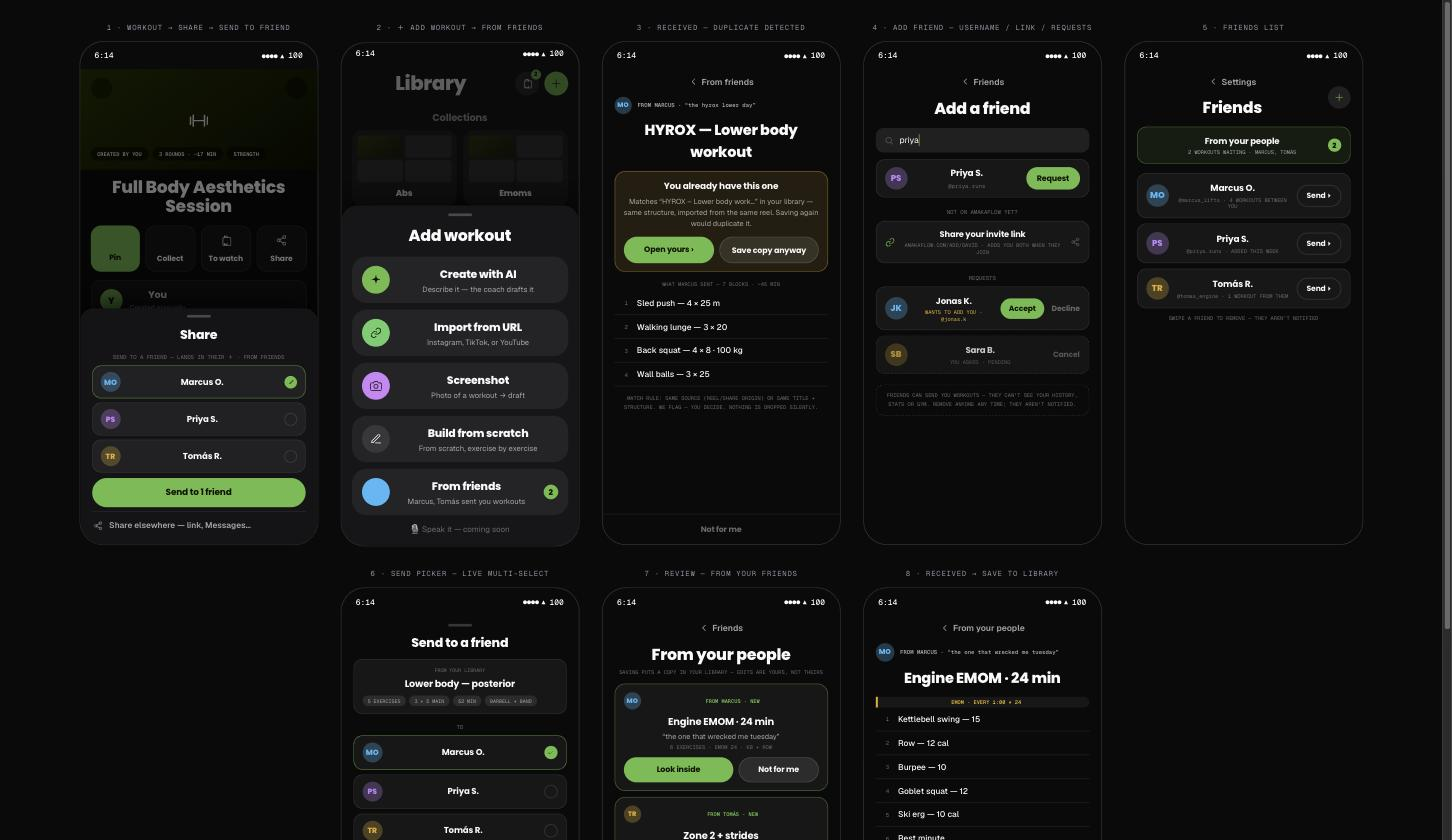
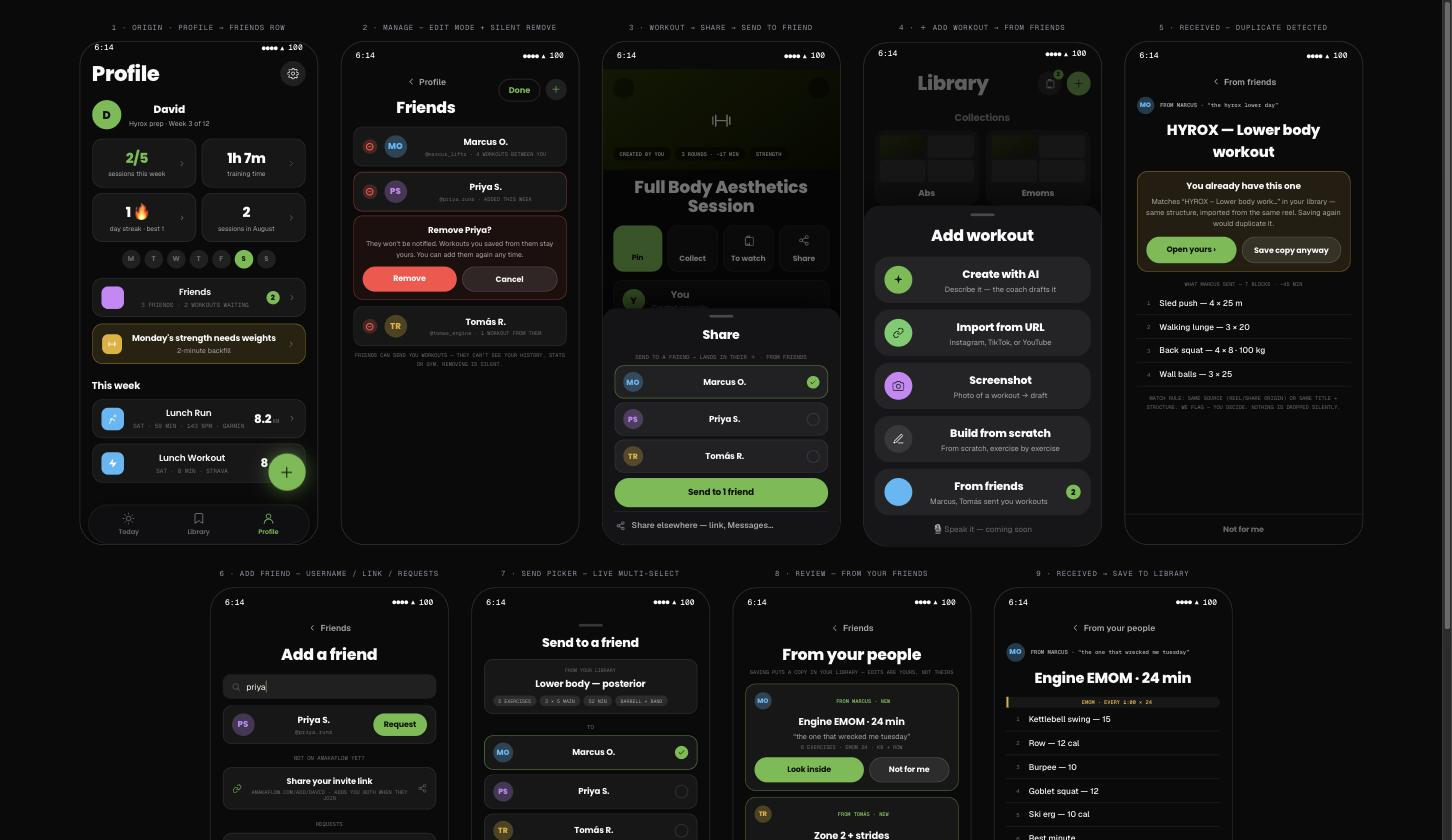
[AMA-2389] handoff: final placement — Profile Friends row + Edit-mode manage/remove

diff --git a/design-handoff/reference/screens-friends3.jsx b/design-handoff/reference/screens-friends3.jsx
@@ -1,0 +1,338 @@
+/**
+ * Friends — ORIGIN + MANAGE/REMOVE (2026-08-08). DISPOSABLE.
+ * David's final placement call: Friends originates on PROFILE (not the
+ * Settings row) — a row between the week dots and the needs-attention
+ * card, ported from his live Profile screenshot (identity · 2×2 tiles ·
+ * week dots · amber backfill · This week · floating island + FAB).
+ * Manage/remove: our own AMA-2375 precedent (Peloton Edit mode, ⊖ rows)
+ * + Mobbin: Locket ✕-row + consequence dialog (a168a4f8), Finch "They
+ * will not be notified" (18f96553), Slopes Manage section (e0a7d749).
+ * FP prefix. Presets: profile / manage.
+ */
+
+const FP = {
+  lime: 'var(--ready-high)', amber: 'var(--ready-mod)', ink: '#0d1200',
+  card: 'rgba(255,255,255,0.055)', card2: 'rgba(255,255,255,0.09)',
+  blue: '#5AB8F4', purple: '#C58AF4', red: '#F4564A',
+};
+
+function FPChip({ name, bg, size = 34 }) {
+  return (
+    <div style={{ width: size, height: size,
+      borderRadius: Math.round(size * 0.29), background: bg, color: '#fff',
+      display: 'flex', alignItems: 'center', justifyContent: 'center',
+      flexShrink: 0 }}>
+      <Icon name={name} size={Math.round(size * 0.47)}/>
+    </div>
+  );
+}
+
+function FPAv({ name, color, size = 34 }) {
+  return (
+    <div style={{ width: size, height: size, borderRadius: 999,
+      background: 'color-mix(in oklch, ' + color + ', transparent 72%)',
+      color, display: 'flex', alignItems: 'center', justifyContent: 'center',
+      fontWeight: 800, fontSize: size * 0.38, flexShrink: 0,
+      fontFamily: 'Poppins, sans-serif' }}>
+      {name.split(' ').map(w => w[0]).join('').slice(0, 2)}
+    </div>
+  );
+}
+
+function FPTabBar({ toast }) {
+  const items = [['sun', 'Today', false], ['bookmark', 'Library', false],
+    ['user', 'Profile', true]];
+  return (
+    <>
+      <div style={{ position: 'absolute', left: 12, right: 12, bottom: 12,
+        zIndex: 30, background: 'rgba(16,16,18,0.96)',
+        border: '1px solid rgba(255,255,255,0.08)', borderRadius: 32,
+        padding: '10px 8px 8px', display: 'flex', alignItems: 'center',
+        backdropFilter: 'blur(14px)',
+        boxShadow: '0 10px 30px rgba(0,0,0,.55)' }}>
+        {items.map(([ic, name, on]) => (
+          <div key={name} style={{ flex: 1, display: 'flex',
+            flexDirection: 'column', alignItems: 'center', gap: 3,
+            color: on ? FP.lime : 'var(--fg-dim)' }}>
+            <Icon name={ic} size={20}/>
+            <span className="dd-display" style={{ fontSize: 10,
+              fontWeight: 600 }}>{name}</span>
+          </div>
+        ))}
+      </div>
+      <div onClick={() => toast('＋ — Add workout sheet (unchanged)')}
+        style={{ position: 'absolute', right: 18, bottom: 92, zIndex: 31,
+          width: 56, height: 56, borderRadius: 999, background: FP.lime,
+          color: FP.ink, display: 'flex', alignItems: 'center',
+          justifyContent: 'center', cursor: 'pointer',
+          boxShadow: '0 0 28px color-mix(in oklch, var(--ready-high), transparent 45%)' }}>
+        <Icon name="plus" size={25}/>
+      </div>
+    </>
+  );
+}
+
+// -------- ORIGIN · Profile (real anatomy) + the Friends row
+function FPProfileScreen({ set }) {
+  const toast = (t) => set(s => ({ ...s, toast: t }));
+  return (
+    <>
+      <div style={{ padding: '8px 18px 0', display: 'flex',
+        alignItems: 'center' }}>
+        <div className="dd-display" style={{ fontSize: 32, fontWeight: 800 }}>
+          Profile</div>
+        <div style={{ marginLeft: 'auto', width: 38, height: 38,
+          borderRadius: 999, background: FP.card2, display: 'flex',
+          alignItems: 'center', justifyContent: 'center' }}>
+          <Icon name="gear" size={18}/>
+        </div>
+      </div>
+      <div className="af-scroll" style={{ flex: 1, overflowY: 'auto',
+        padding: '6px 18px 96px' }}>
+        <div style={{ display: 'flex', alignItems: 'center', gap: 12,
+          marginTop: 10 }}>
+          <div className="dd-display" style={{ width: 44, height: 44,
+            borderRadius: 999, background: FP.lime, color: FP.ink,
+            display: 'flex', alignItems: 'center', justifyContent: 'center',
+            fontSize: 17, fontWeight: 800 }}>D</div>
+          <div>
+            <div className="dd-display" style={{ fontSize: 16,
+              fontWeight: 800 }}>David</div>
+            <div style={{ fontSize: 10.5, color: 'var(--fg-muted)',
+              marginTop: 1 }}>Hyrox prep · Week 3 of 12</div>
+          </div>
+        </div>
+        <div style={{ display: 'grid', gridTemplateColumns: '1fr 1fr', gap: 8,
+          marginTop: 14 }}>
+          {[['2/5', 'sessions this week', FP.lime],
+            ['1h 7m', 'training time', '#fff'],
+            ['1 🔥', 'day streak · best 1', '#fff'],
+            ['2', 'sessions in August', '#fff']].map(([v, k, c]) => (
+            <div key={k} style={{ background: FP.card,
+              border: '1px solid var(--border)', borderRadius: 16,
+              padding: '13px 14px', display: 'flex', alignItems: 'center',
+              gap: 8 }}>
+              <div style={{ flex: 1 }}>
+                <div className="dd-display" style={{ fontSize: 21,
+                  fontWeight: 800, color: c }}>{v}</div>
+                <div style={{ fontSize: 10, color: 'var(--fg-muted)',
+                  marginTop: 2 }}>{k}</div>
+              </div>
+              <Icon name="chevR" size={13} style={{ color: 'var(--fg-dim)' }}/>
+            </div>
+          ))}
+        </div>
+        <div style={{ display: 'flex', gap: 6, justifyContent: 'center',
+          marginTop: 12 }}>
+          {['M', 'T', 'W', 'T', 'F', 'S', 'S'].map((d, i) => (
+            <div key={i} className="dd-display" style={{ width: 28,
+              height: 28, borderRadius: 999, display: 'flex',
+              alignItems: 'center', justifyContent: 'center',
+              fontSize: 10.5, fontWeight: 700,
+              background: i === 5 ? FP.lime : FP.card2,
+              color: i === 5 ? FP.ink : 'var(--fg-dim)' }}>{d}</div>
+          ))}
+        </div>
+
+        {/* THE FRIENDS ROW — the origin. This-week row anatomy. */}
+        <div onClick={() => toast('Opens Friends (manage panel next)')}
+          style={{ display: 'flex', alignItems: 'center', gap: 12,
+            background: FP.card, border: '1px solid var(--border)',
+            borderRadius: 16, padding: '11px 13px', marginTop: 14,
+            cursor: 'pointer' }}>
+          <FPChip name="users" bg={FP.purple} size={34}/>
+          <div style={{ flex: 1, minWidth: 0 }}>
+            <div className="dd-display" style={{ fontSize: 13.5,
+              fontWeight: 600 }}>Friends</div>
+            <div className="af-mono" style={{ fontSize: 9, marginTop: 3,
+              color: 'var(--fg-dim)' }}>3 FRIENDS · 2 WORKOUTS WAITING</div>
+          </div>
+          <span className="dd-display" style={{ background: FP.lime,
+            color: FP.ink, borderRadius: 999, minWidth: 20, height: 20,
+            display: 'inline-flex', alignItems: 'center',
+            justifyContent: 'center', fontSize: 11, fontWeight: 800,
+            padding: '0 6px' }}>2</span>
+          <Icon name="chevR" size={13} style={{ color: 'var(--fg-dim)' }}/>
+        </div>
+
+        <div style={{ marginTop: 10, padding: '12px 14px', borderRadius: 16,
+          display: 'flex', alignItems: 'center', gap: 12,
+          background: 'color-mix(in oklch, var(--ready-mod), transparent 86%)',
+          border: '1px solid color-mix(in oklch, var(--ready-mod), transparent 55%)' }}>
+          <FPChip name="lift" bg={'var(--ready-mod)'} size={30}/>
+          <div style={{ flex: 1 }}>
+            <div className="dd-display" style={{ fontSize: 13,
+              fontWeight: 700 }}>Monday's strength needs weights</div>
+            <div style={{ fontSize: 10.5, color: 'var(--fg-muted)',
+              marginTop: 1 }}>2-minute backfill</div>
+          </div>
+          <Icon name="chevR" size={14} style={{ color: 'var(--fg-dim)' }}/>
+        </div>
+
+        <div style={{ display: 'flex', alignItems: 'center',
+          margin: '20px 0 10px' }}>
+          <span className="dd-display" style={{ fontSize: 15,
+            fontWeight: 700 }}>This week</span>
+        </div>
+        {[['Lunch Run', 'run', FP.blue, '8.2', 'KM', 'SAT · 59 MIN · 143 BPM · GARMIN'],
+          ['Lunch Workout', 'bolt', FP.blue, '8', 'MIN', 'SAT · 8 MIN · STRAVA']].map(([t, ic, bg, big, unit, meta]) => (
+          <div key={t} style={{ display: 'flex', alignItems: 'center',
+            gap: 12, background: FP.card, border: '1px solid var(--border)',
+            borderRadius: 16, padding: '11px 13px', marginBottom: 8 }}>
+            <FPChip name={ic} bg={bg} size={34}/>
+            <div style={{ flex: 1, minWidth: 0 }}>
+              <div className="dd-display" style={{ fontSize: 13.5,
+                fontWeight: 600 }}>{t}</div>
+              <div className="af-mono" style={{ fontSize: 9, marginTop: 3,
+                color: 'var(--fg-dim)' }}>{meta}</div>
+            </div>
+            <div style={{ textAlign: 'right', flexShrink: 0 }}>
+              <span className="dd-display" style={{ fontSize: 18,
+                fontWeight: 800 }}>{big}</span>
+              <span className="af-mono" style={{ fontSize: 8.5,
+                color: 'var(--fg-dim)', marginLeft: 2 }}>{unit}</span>
+            </div>
+            <Icon name="chevR" size={13} style={{ color: 'var(--fg-dim)' }}/>
+          </div>
+        ))}
+      </div>
+      <FPTabBar toast={toast}/>
+    </>
+  );
+}
+
+// -------- MANAGE · Friends list w/ Edit mode + remove confirm
+function FPManageScreen({ set }) {
+  const toast = (t) => set(s => ({ ...s, toast: t }));
+  const [editing, setEditing] = React.useState(true);
+  const [confirming, setConfirming] = React.useState('Priya S.');
+  const friends = [
+    ['Marcus O.', '@marcus_lifts', FP.blue, '4 WORKOUTS BETWEEN YOU'],
+    ['Priya S.', '@priya.runs', FP.purple, 'ADDED THIS WEEK'],
+    ['Tomás R.', '@tomas_engine', FP.amber, '1 WORKOUT FROM THEM'],
+  ];
+  return (
+    <>
+      <div style={{ padding: '10px 18px 0', display: 'flex',
+        alignItems: 'flex-start' }}>
+        <div style={{ flex: 1 }}>
+          <div style={{ display: 'inline-flex', alignItems: 'center', gap: 4,
+            color: 'var(--fg-muted)', fontSize: 13, fontWeight: 600 }}>
+            <Icon name="chevL" size={16}/> Profile
+          </div>
+          <div className="dd-display" style={{ fontSize: 24, fontWeight: 800,
+            marginTop: 8 }}>Friends</div>
+        </div>
+        <div style={{ display: 'flex', gap: 8, marginTop: 4 }}>
+          <span onClick={() => setEditing(e => !e)} className="dd-display"
+            style={{ fontSize: 12.5, fontWeight: 700,
+              color: editing ? FP.lime : 'var(--fg-muted)',
+              border: '1px solid var(--border-str)', borderRadius: 999,
+              padding: '7px 14px', cursor: 'pointer' }}>
+            {editing ? 'Done' : 'Edit'}</span>
+          <div onClick={() => toast('Opens Add a friend (username / link / requests)')}
+            style={{ width: 32, height: 32, borderRadius: 999,
+              background: FP.card2, display: 'flex', alignItems: 'center',
+              justifyContent: 'center', cursor: 'pointer' }}>
+            <Icon name="plus" size={15} style={{ color: FP.lime }}/>
+          </div>
+        </div>
+      </div>
+      <div className="af-scroll" style={{ flex: 1, overflowY: 'auto',
+        padding: '12px 18px 20px' }}>
+        {friends.map(([n, u, c, rel]) => (
+          <React.Fragment key={u}>
+            <div style={{ display: 'flex', alignItems: 'center', gap: 11,
+              background: FP.card,
+              border: confirming === n && editing
+                ? '1px solid color-mix(in oklch, #F4564A, transparent 55%)'
+                : '1px solid var(--border)',
+              borderRadius: 14, padding: '12px 13px', marginBottom: 8 }}>
+              {editing && (
+                <div onClick={() => setConfirming(n)}
+                  style={{ width: 22, height: 22, borderRadius: 999,
+                    background: 'color-mix(in oklch, #F4564A, transparent 78%)',
+                    color: FP.red, display: 'flex', alignItems: 'center',
+                    justifyContent: 'center', cursor: 'pointer',
+                    fontWeight: 800, fontSize: 14, flexShrink: 0 }}>⊖</div>
+              )}
+              <FPAv name={n} color={c}/>
+              <div style={{ flex: 1, minWidth: 0 }}>
+                <div className="dd-display" style={{ fontSize: 13.5,
+                  fontWeight: 700 }}>{n}</div>
+                <div className="af-mono" style={{ fontSize: 8, marginTop: 2,
+                  color: 'var(--fg-dim)' }}>{u} · {rel}</div>
+              </div>
+              {!editing && (
+                <div className="dd-display"
+                  onClick={() => toast('Opens send picker · ' + n.split(' ')[0] + ' pre-selected')}
+                  style={{ border: '1px solid var(--border-str)',
+                    borderRadius: 999, padding: '7px 14px', fontSize: 11.5,
+                    fontWeight: 700, cursor: 'pointer' }}>Send ▸</div>
+              )}
+            </div>
+            {/* inline remove confirm — Finch/Locket copy */}
+            {editing && confirming === n && (
+              <div style={{ background: 'color-mix(in oklch, #F4564A, transparent 92%)',
+                border: '1px solid color-mix(in oklch, #F4564A, transparent 60%)',
+                borderRadius: 14, padding: '11px 13px', margin: '-2px 0 10px' }}>
+                <div className="dd-display" style={{ fontSize: 13,
+                  fontWeight: 700 }}>Remove {n.split(' ')[0]}?</div>
+                <div style={{ fontSize: 10.5, color: 'var(--fg-muted)',
+                  marginTop: 3, lineHeight: 1.5 }}>
+                  They won't be notified. Workouts you saved from them stay
+                  yours. You can add them again any time.</div>
+                <div style={{ display: 'flex', gap: 8, marginTop: 10 }}>
+                  <div className="dd-display"
+                    onClick={() => { setConfirming(null);
+                      toast(n.split(' ')[0] + ' removed — not notified'); }}
+                    style={{ flex: 1, background: FP.red, color: '#fff',
+                      borderRadius: 999, padding: '9px 0',
+                      textAlign: 'center', fontSize: 12, fontWeight: 700,
+                      cursor: 'pointer' }}>Remove</div>
+                  <div className="dd-display"
+                    onClick={() => setConfirming(null)}
+                    style={{ flex: 1, background: FP.card2,
+                      border: '1px solid var(--border-str)',
+                      borderRadius: 999, padding: '9px 0',
+                      textAlign: 'center', fontSize: 12, fontWeight: 700,
+                      cursor: 'pointer' }}>Cancel</div>
+                </div>
+              </div>
+            )}
+          </React.Fragment>
+        ))}
+        <div className="af-mono" style={{ fontSize: 8, color: 'var(--fg-dim)',
+          textAlign: 'center', marginTop: 8, lineHeight: 1.7 }}>
+          FRIENDS CAN SEND YOU WORKOUTS — THEY CAN'T SEE YOUR HISTORY, STATS
+          OR GYM. REMOVING IS SILENT.</div>
+      </div>
+    </>
+  );
+}
+
+function DDFriends3Screen({ preset }) {
+  const [st, set] = React.useState({ toast: null });
+  React.useEffect(() => {
+    if (!st.toast) return;
+    const t = setTimeout(() => set(s => ({ ...s, toast: null })), 2600);
+    return () => clearTimeout(t);
+  }, [st.toast]);
+  const body = preset === 'manage'
+    ? <FPManageScreen set={set}/> : <FPProfileScreen set={set}/>;
+  return (
+    <div style={{ position: 'relative', display: 'flex',
+      flexDirection: 'column', height: '100%' }}>
+      {body}
+      {st.toast && (
+        <div style={{ position: 'absolute', bottom: 84, left: 14, right: 14,
+          zIndex: 40, background: '#17181c',
+          border: '1px solid var(--border-str)', borderRadius: 12,
+          padding: '9px 13px', fontSize: 10.5, color: 'var(--fg-muted)',
+          boxShadow: '0 10px 30px rgba(0,0,0,0.55)' }}>{st.toast}</div>
+      )}
+    </div>
+  );
+}
+
+Object.assign(window, { DDFriends3Screen });

diff --git a/design-handoff/FRIENDS.md b/design-handoff/FRIENDS.md
@@ -2,8 +2,8 @@
 
 > Ticket (full spec + validation): [AMA-2389](https://linear.app/amakaflow/issue/AMA-2389/friends-and-workout-sharing-v1-add-friends-send-from-share-receive-via)
 > Spec of record: `amakaflow-docs/docs/superpowers/specs/2026-08-08-friends-workout-sharing-design.md` (PR #68)
-> Reference source: `reference/screens-friends.jsx` (FR — flows) + `reference/screens-friends2.jsx` (FR2 — placement ports)
-> Ground truth: `screenshots/rig-friends-panels.jpg` (8 panels)
+> Reference source: `reference/screens-friends.jsx` (FR — flows) + `reference/screens-friends2.jsx` (FR2 — Share/＋/dup ports) + `reference/screens-friends3.jsx` (FP — Profile origin + manage/remove)
+> Ground truth: `screenshots/rig-friends-panels.jpg` (9 panels)
 > Live rig (panels 1, 2, 6 interactive): https://claude.ai/design/p/2ff39626-7f9e-440a-8182-7b19aa44227f?file=hifi%2Frig-friends.html
 
 **One sentence:** add friends (mutual-accept), send library workouts from the workout screen's **existing Share tile**, receive via a new **From friends** source in the ＋ Add-workout sheet, and flag duplicates on save — sharing, not social.
@@ -14,15 +14,15 @@
 |---|---|---|
 | Send | Workout detail action row (Pin/Collect/To-watch/**Share**) | Share opens a sheet: "Send to a friend" (friend select + counted CTA) on top, "Share elsewhere — link, Messages…" (current system share) below |
 | Receive | ＋ Add-workout sheet | New row, shipped anatomy (icon circle + title + sub): **From friends** · "<names> sent you workouts" + lime waiting badge. After Build from scratch |
-| Manage | Settings accordion (My Gyms / Connected wearables / …) | New **Friends** row → list / add / requests. Waiting badge here too |
+| Manage | **Profile screen** (final placement — supersedes Settings) | **Friends** row between the week dots and the needs-attention card, This-week row anatomy (`Friends · 3 FRIENDS · 2 WORKOUTS WAITING` + lime badge) → list / add / requests |
 | Today | — | NOTHING standing. Arrival = DD Toast + badges only |
 
 ## Build order
 
 1. **Backend/BFF seams first, behind a protocol** (endpoints land separately): `Friendship` (request/accept/decline/cancel/remove/list — decline/cancel/remove are SILENT, no notification event) and `WorkoutShare` (send/list/mark-seen/save/dismiss). Shares carry an **immutable workoutSnapshot** + `lineageId` (stable across re-shares; seeded from the origin source id when the workout came from a reel/URL) + optional note.
-2. **Settings Friends row + friends screens** (add / list / requests — exact copy strings in `screens-friends.jsx`). Privacy contract card verbatim: *"Friends can send you workouts — they can't see your history, stats or gym. Remove anyone any time; they aren't notified."* Unique @handle required — confirm Clerk username covers it; else a claim step on first Friends visit.
+2. **Profile Friends row + friends screens** (row port in `screens-friends3.jsx` FPProfileScreen; add / list / requests copy in `screens-friends.jsx`). **Manage/remove** (`FPManageScreen`): header Edit pill toggles the AMA-2375-style edit mode — red ⊖ per row → INLINE confirm card "Remove <name>? They won't be notified. Workouts you saved from them stay yours. You can add them again any time." [Remove / Cancel]. Removal emits NO notification event; re-add allowed. Privacy contract card verbatim: *"Friends can send you workouts — they can't see your history, stats or gym. Remove anyone any time; they aren't notified."* Unique @handle required — confirm Clerk username covers it; else a claim step on first Friends visit.
 3. **Share sheet upgrade** (`screens-friends2.jsx` FR2DetailScreen): friend multi-select, gated counted CTA `Send to N friends`, honesty line "They get a copy — your original stays yours; their edits don't touch it." Send = DD Toast push-morph (ToastHost, #534) — never claim Sent before the API confirms. System share row unchanged below.
-4. **＋ sheet From friends row + review list** (FR2AddScreen + FRInboxScreen): unread lime-bordered cards `FROM <NAME> · NEW` w/ note + Look inside / Not for me (silent dismiss); handled cards dim `SAVED ✓`. Badge count = unhandled shares; identical on Settings row and ＋ row; decrements on save AND dismiss.
+4. **＋ sheet From friends row + review list** (FR2AddScreen + FRInboxScreen): unread lime-bordered cards `FROM <NAME> · NEW` w/ note + Look inside / Not for me (silent dismiss); handled cards dim `SAVED ✓`. Badge count = unhandled shares; identical on Profile Friends row and ＋ row; decrements on save AND dismiss.
 5. **Received detail + Save** (FRSavedScreen): read-only structure preview (band + numbered rows), snapshot rule copy, **Save to Library** → normal workout with `From <name>` in the attribution card (`sourceType: friend`). Everything existing (collections, watch-ready, editor) must just work on it.
 6. **Dedupe on open** (FR2DupScreen): match = same `lineageId` OR same normalized title + structure fingerprint (block count, exercise sequence, set scheme hash). Strong match → amber **"You already have this one"** card: **Open yours ›** (navigate to existing) / **Save copy anyway** (title + ` (from <name>)`) / Not for me. Title-only similarity → NO flag. Never silently dedupe or drop.
 
@@ -35,14 +35,14 @@
 
 ## a11y IDs
 
-`af_share_sheet` · `af_share_friend_row_<handle>` · `af_share_send` · `af_share_system` · `af_add_from_friends` (+ `_badge`) · `af_friends_settings_row` · `af_friends_list` · `af_friends_add` · `af_friends_request_accept|decline|cancel` · `af_friends_invite_link` · `af_recv_row_<id>` · `af_recv_look|dismiss` · `af_recv_dup_card` · `af_recv_dup_open|copy` · `af_recv_save`
+`af_share_sheet` · `af_share_friend_row_<handle>` · `af_share_send` · `af_share_system` · `af_add_from_friends` (+ `_badge`) · `af_friends_profile_row` · `af_friends_edit` · `af_friends_remove_<handle>` (+ `_confirm`) · `af_friends_list` · `af_friends_add` · `af_friends_request_accept|decline|cancel` · `af_friends_invite_link` · `af_recv_row_<id>` · `af_recv_look|dismiss` · `af_recv_dup_card` · `af_recv_dup_open|copy` · `af_recv_save`
 
 ## Validation gate (details in the ticket)
 
 - Unit: friendship state machine (silent negatives, re-request allowed); snapshot immutability both directions; dedupe matrix (lineage / fingerprint / title-only-no-flag / copy suffix / open-yours nav); gated CTA; idempotent save; badge parity + decrement rules.
 - ⚠ Maestro: sheets need the `.large`-detent-under-`UITEST_*` workaround (iOS 26.1 medium-detent a11y gap). Flows: Share→send→toast morph; ＋→From friends→save→in library; dup→Open yours.
 - Two-account dogfood (the real gate): A↔B request/accept → share w/ note → badge → save w/ attribution → cross-edits don't propagate → re-share shows dup card → remove is silent.
-- Visual: 8 rig-parity shots vs `screenshots/rig-friends-panels.jpg`. Placement panels must match the SHIPPED views (detail action row, ＋ sheet anatomy, Settings accordion) — build against the real screens, not the mockups.
+- Visual: 9 rig-parity shots vs `screenshots/rig-friends-panels.jpg`. Placement panels must match the SHIPPED views (Profile anatomy, detail action row, ＋ sheet anatomy) — build against the real screens, not the mockups.
 
 ## Out of scope
 
